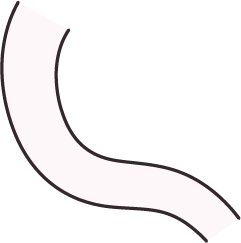
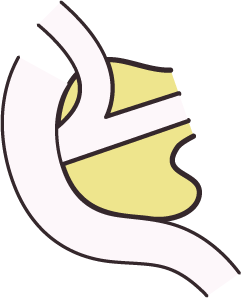
BileDuct & Duodenum integrated.

Changed region(s): [[0.1452, 0.0576, 1.0, 0.9218], [0.0, 0.0, 0.8714, 1.0], [0.2324, 0.0, 0.7552, 0.4033]]

diff --git a/core/src/com/neogineer/smallintestinedemo/utils/Constants.java b/core/src/com/neogineer/smallintestinedemo/utils/Constants.java
@@ -59,7 +59,7 @@ public class Constants {
     public static final Vector2 BILEDUCT_POSITION = new Vector2(38,47);
     public static final Vector2 GALLBLADDER_POSITION = new Vector2(38,47);
     public static final Vector2 PANCREAS_POSITION = new Vector2(38,47);
-    public static final Vector2 DUODENUM_POSITION = new Vector2(40,40);
+    public static final Vector2 DUODENUM_POSITION = new Vector2(40,41.3f);
     public static final Vector2 RECTUM_POSITION = COLON_LEFT_POSITION.cpy().add(-9,-6);
     public static final Vector2 STOMACH_POSITION = new Vector2(47, 59.2f);
     public static final Vector2 APPENDIX_POSITION = SMALLINTESTINE_RIGHT_POSITION.cpy().add(5,3);
